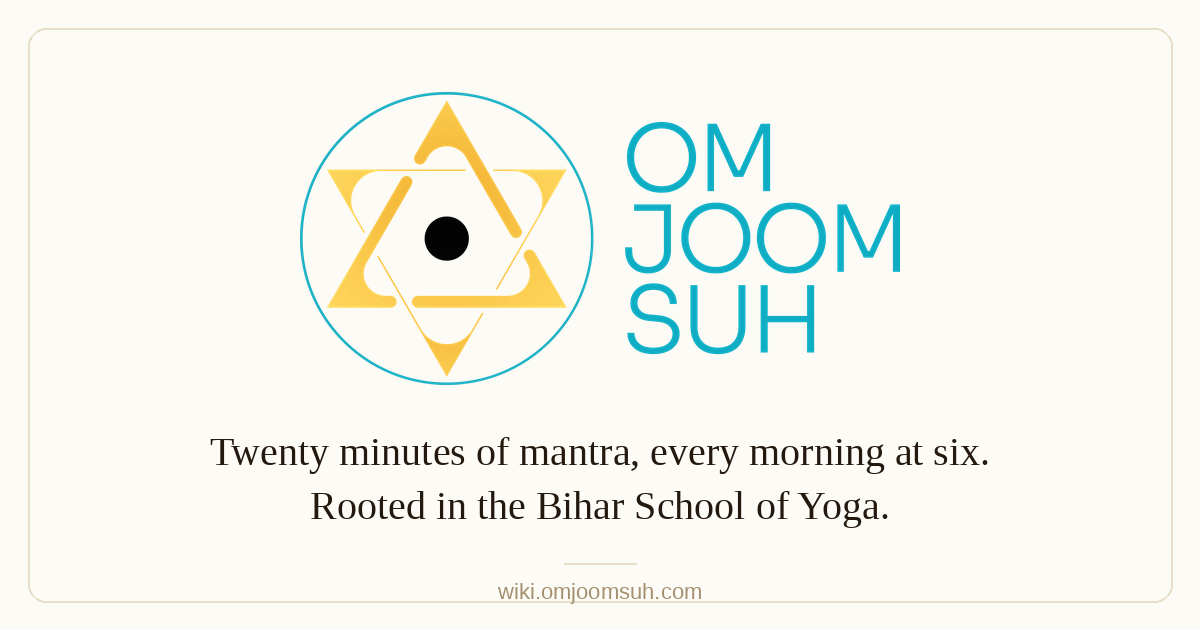
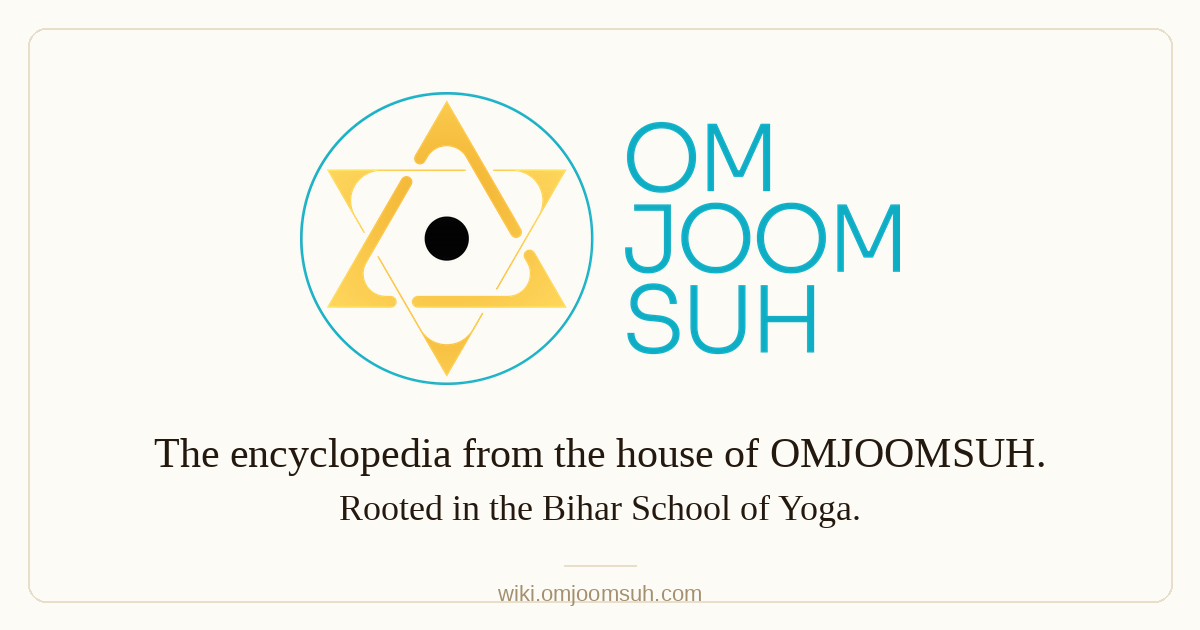
omjoomsuh wiki, the encyclopedia from the house of omjoomsuh

diff --git a/content/index.md b/content/index.md
@@ -1,13 +1,15 @@
 ---
-title: OMJOOMSUH
+title: OMJOOMSUH Wiki
 type: index
 updated: 2026-09-24
-description: "A daily mantra practice from Delhi, rooted in the Bihar School of Yoga. This site holds the sources."
+description: "The encyclopedia from the house of OMJOOMSUH. A daily mantra practice from Delhi, rooted in the Bihar School of Yoga."
 ---
 
-# OMJOOMSUH
+# OMJOOMSUH Wiki
 
-A small daily practice group in Delhi. Led every morning by one man, from one old tradition. This site is where the sources are kept.
+The encyclopedia from the house of OMJOOMSUH.
+
+OMJOOMSUH is a small daily practice group in Delhi, led every morning by one man, from one old tradition. This site is where the sources are kept.
 
 **New here?** Read [[The Door]]. It takes five minutes and says what this is, who runs it, and where it comes from.
 
